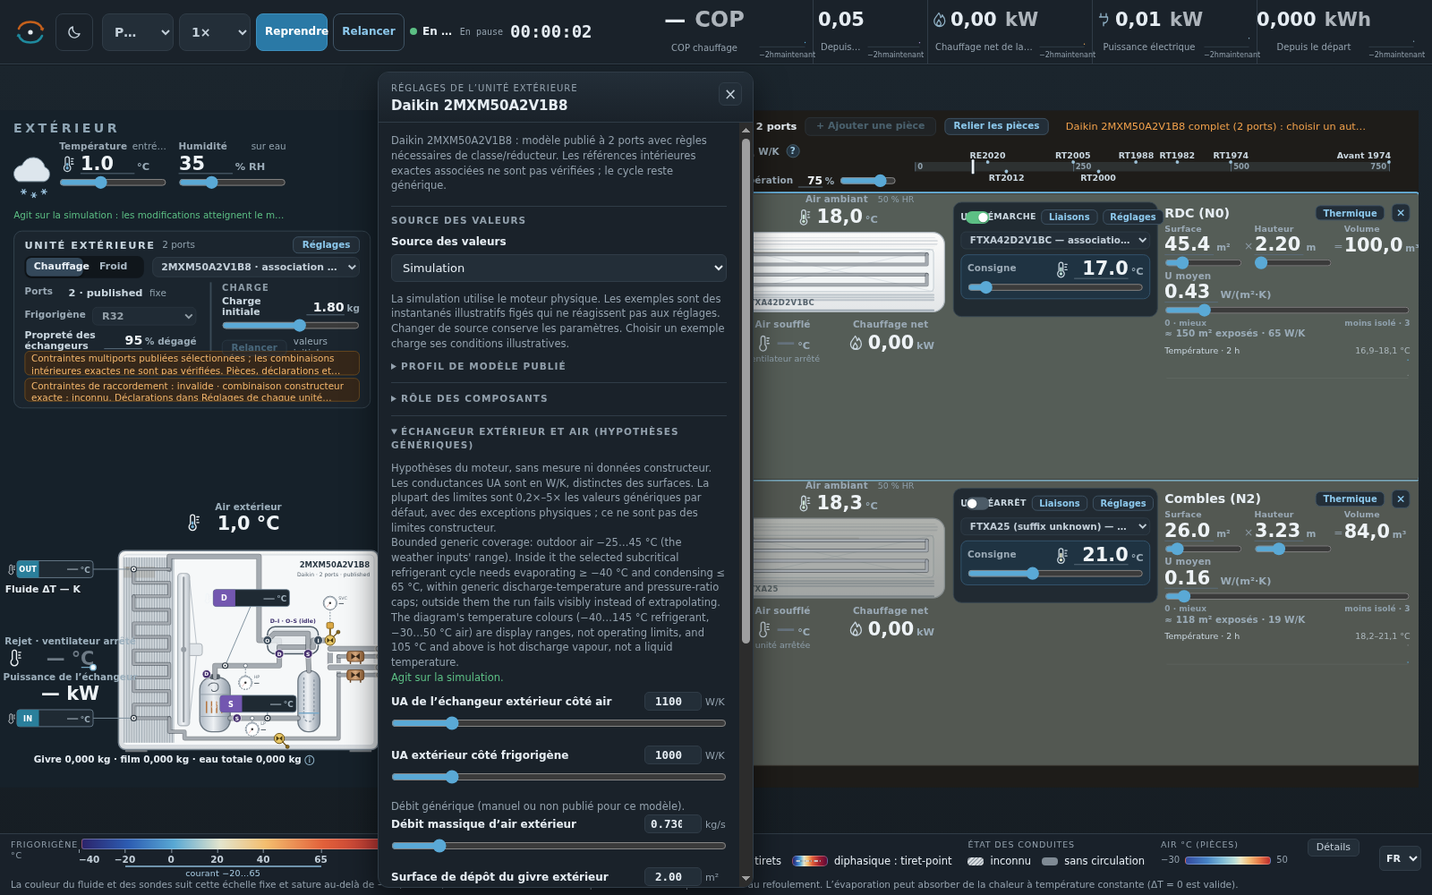
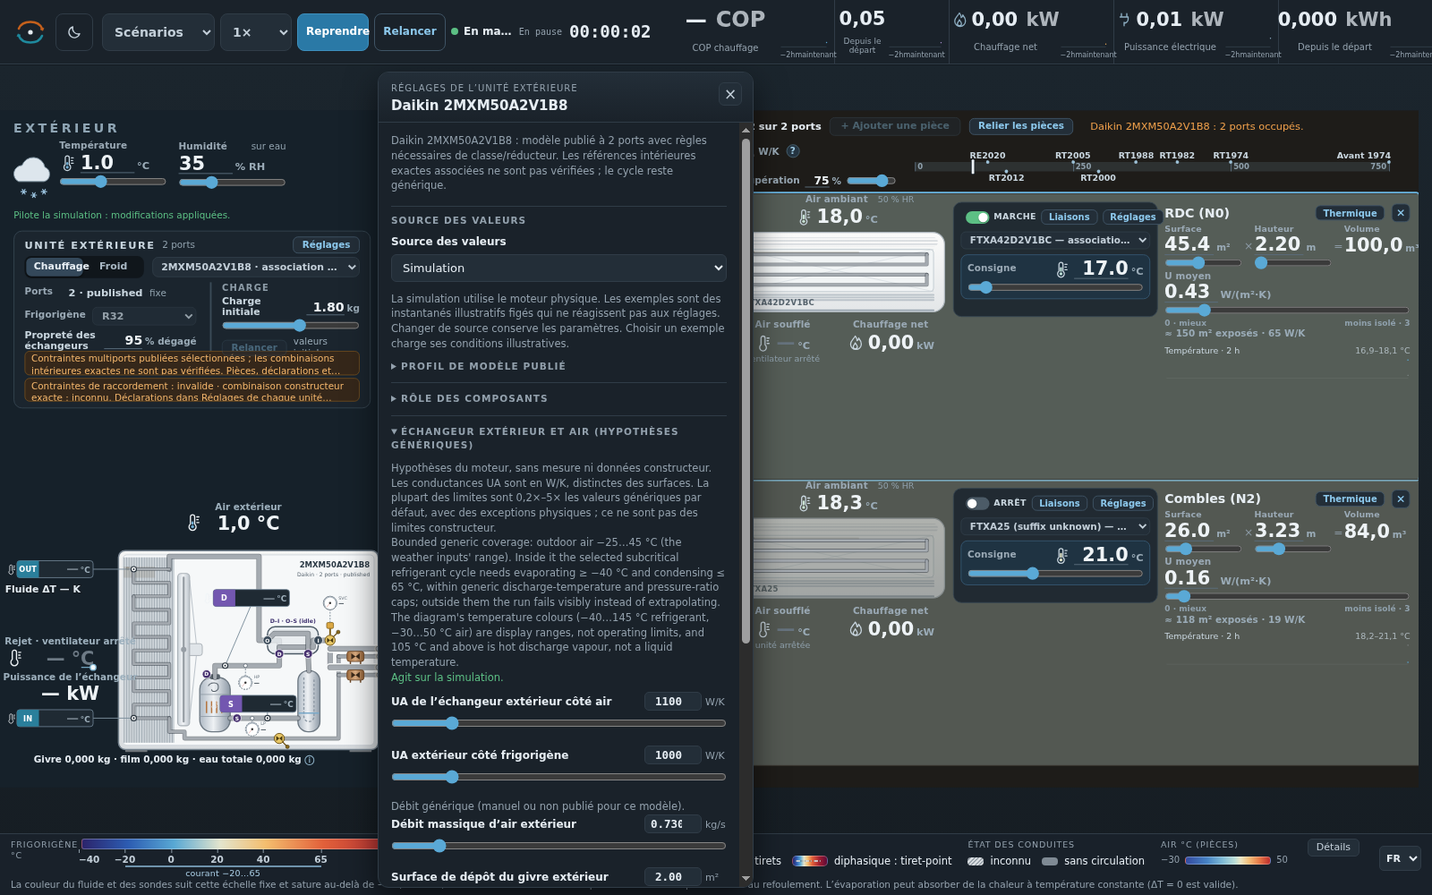
Offer every catalogued Daikin head on the owner 3MXM52N8 preset and fix clipped labels
The owner outdoor entry hard-coded FTXA25/35 as its only heads, while the
catalogue's own 3MXM52N2V1B8 entry already allowed all Daikin heads. The
owner preset now shares that selection; non-owner heads are marked
"combination unverified".

Also removes the out-of-scope finned-surface placeholder row, wraps
branch-line and session-COP labels, positions the indoor bar from the
measured localized title, rebalances header widths (fixing the existing
1360 px overflow) and adds missing French patterns.

diff --git a/src/locales/fr.ts b/src/locales/fr.ts
@@ -42,7 +42,7 @@ const BASE: Readonly<Record<string, string>> = {
  'Shared by all indoor units':'Hypothèses communes aux unités intérieures', 'Humidity ratio':'Humidité absolue', 'Compressor and fans off, controls only.':'Compresseur et ventilateurs arrêtés, commande seule.', 'Water mass residual':'Résidu du bilan massique d’eau', 'Outdoor metal temperature':'Température du métal extérieur', 'Refrigerant condenser heat':'Puissance frigorigène au condenseur', 'Refrigerant evaporator heat':'Puissance frigorigène à l’évaporateur', 'Shared-pressure closure residual':'Résidu de fermeture des pressions communes', 'Refrigerant remaining':'Frigorigène restant', 'Refrigerant mass residual':'Résidu du bilan massique frigorigène', 'Refrigerant energy residual':'Résidu énergétique frigorigène', 'Inventory balance residual':'Résidu du bilan d’inventaire',
  'Match fixture':'Conditions de l’exemple', 'Editable outdoor':'Extérieur modifiable', 'CHARGE':'CHARGE', 'fixed':'fixe', 'unavailable':'indisponible', 'line':'liaison', 'transport idealized':'transport idéalisé', 'Model diagnostics':'Diagnostic du modèle', 'Details and readings':'Détails et valeurs', 'Constant H':'H constant', 'Oil':'Huile', 'Other':'Autres', 'Oil and other (pending)':'Huile et autres (à venir)', 'Refrigerant (research gating)':'Frigorigène (validation)', 'Component labels at outdoor zoom':'Noms des composants en zoom extérieur', 'Virtual HP tap':'Prise HP illustrative', 'Virtual LP tap':'Prise BP illustrative', 'Pending reference · no lubricant circulation or solubility model':'À venir · ni circulation ni solubilité du lubrifiant modélisées', 'Pending reference · moisture, non-condensables and contamination are not modelled':'À venir · humidité, incondensables et contamination non modélisés', 'Selected · pure fluid · real property backend (Live) · pinned EOS probe (Examples)':'Sélectionné · fluide pur · propriétés réelles (simulation) · point EOS référencé (exemples)', 'start values apply with the inventory model':'valeurs initiales appliquées au modèle à inventaire', 'House loss ≈ ':'Déperditions ≈ ',
  'Pause':'Pause', 'Resume':'Reprendre', 'Reset':'Relancer', 'Restart':'Relancer',
- 'Reset simulation':'Relancer la simulation','Presets':'Préréglages','Quick preset':'Préréglage rapide',
+ 'Reset simulation':'Relancer la simulation','Presets':'Scénarios','Quick preset':'Préréglage rapide',
  "Owner's winter · 1 °C":'Maison · hiver · 1 °C', "Owner's summer · 39 °C":'Maison · été · 39 °C',
  'Colour theme':'Thème de couleur','System':'Système','Light':'Clair','Dark':'Sombre','Language':'Langue',
  'Requested speed':'Vitesse demandée','Actual simulation speed':'Vitesse réelle de simulation',
@@ -166,7 +166,7 @@ const BASE: Readonly<Record<string, string>> = {
  'Room air temperature and humidity':'Température et humidité de la pièce',
  'Last accepted room temperature and humidity; calculation stopped.':'Dernières température et humidité validées ; calcul arrêté.',
  'Room air T / RH':'Température / HR de la pièce','Room air temperature (input)':'Température ambiante (entrée)',
- 'Signed kW':'kW signés','Signed room heat':'Puissance signée de la pièce','Net room heating':'Chauffage net de la pièce',
+ 'Signed kW':'kW signés','Signed room heat':'Puissance signée de la pièce','Net room heating':'Chauffage net',
  'Net room cooling':'Froid net de la pièce','Total electrical input':'Puissance électrique totale','Electricity consumed':'Électricité consommée',
  'Compressor refrigerant work':'Travail du compresseur transmis au fluide','Refrigerant work':'Travail transmis au frigorigène',
  'Drive loss':'Pertes du moteur/variateur','Controls':'Commande','Allocation':'Répartition','Branch':'Branche',
@@ -202,7 +202,7 @@ const BASE: Readonly<Record<string, string>> = {
  'Published model profile':'Profil de modèle publié','Nominal class':'Classe nominale','Pairing':'Association',
  'Catalogue family data; installed suffix unknown':'Données de gamme ; suffixe installé inconnu',
  'No effect on live performance':'Sans effet sur les performances simulées','Drives live model.':'Agit sur la simulation.',
- 'Drives the live model: changes reach the engine.':'Agit sur la simulation : les modifications atteignent le moteur.',
+ 'Drives the live model: changes reach the engine.':'Pilote la simulation : modifications appliquées.',
  'Stored for Live; the Examples ignore these values.':'Conservé pour la simulation ; les exemples ignorent ces valeurs.',
  'Stored for the Inventory model.':'Conservé pour le modèle à inventaire.',
  'Reference model active. The Inventory model is gated until its science review passes.':'Modèle de référence actif. Le modèle à inventaire attend sa validation scientifique.',
@@ -253,7 +253,7 @@ export const FR_PATTERNS: readonly (readonly [string, string])[] = [
  ['{n} of {capacity} ports','{n} sur {capacity} ports'],['{n} of {capacity} port','{n} sur {capacity} port'],
  ['{n} of {capacity} assumed ports','{n} sur {capacity} ports supposés'],
  ['{n} · declared','{n} · déclaré'],['envelope {loss} + air ~{air}','enveloppe {loss} + air ~{air}'],
- ['{model} full ({ports} ports): choose another outdoor model for more.','{model} complet ({ports} ports) : choisir un autre modèle pour en ajouter.'],
+ ['{model} full ({ports} ports): choose another outdoor model.','{model} : {ports} ports occupés.'],['{model} full ({ports} port): choose another outdoor model.','{model} : {ports} port occupé.'],
  ['Generic R32 · uncalibrated. Efficiency and cleanliness drive the model.','R32 générique · non étalonné. Rendement et propreté agissent sur le moteur.'],
  ['{name} indoor coil cleanliness {value} % clear (global)','Propreté de l’échangeur intérieur de {name} : {value} % dégagé (global)'],
  ['Outdoor coil cleanliness {value} % clear (global)','Propreté de l’échangeur extérieur : {value} % dégagé (global)'],
@@ -270,7 +270,7 @@ export const FR_PATTERNS: readonly (readonly [string, string])[] = [
  ['{name} indoor coil liquid end · {basis}','extrémité liquide de l’échangeur intérieur de {name} · {basis}'],
  ['{a} and {b}: {what}, vertical connection, {heat}. Click to edit.','{a} et {b} : {what}, liaison verticale, {heat}. Cliquer pour modifier.'],
  ['{a} and {b}: {what}, horizontal connection, {heat}. Click to edit.','{a} et {b} : {what}, liaison horizontale, {heat}. Cliquer pour modifier.'],
- ['REF ΔT {value} K','Fluide ΔT {value} K'],['coil heat {value}','échange {value}'],
+ ['REF ΔT {value} K','Fluide ΔT {value} K'],['releases {value} kW','cède {value} kW'],['absorbs {value} kW','absorbe {value} kW'],['coil heat {value}','échange {value}'],
  ['{value} simulated seconds per wall second{detail}','{value} secondes simulées par seconde réelle{detail}'],
 
  ['Compressor paused for {detail}; thermal state continues evolving.','Compresseur en pause pour {detail} ; l’état thermique continue d’évoluer.'], ['Compressor restart dwell: {seconds} seconds remaining.','Délai de redémarrage : {seconds} secondes restantes.'],

diff --git a/src/style.css b/src/style.css
@@ -350,7 +350,7 @@ h2, h3, h4, h5, p, ul, dl { margin: 0; }
 .hd-run { display: flex; align-items: center; gap: 8px; flex: none; }
 .time { font: 650 19px/1 var(--mono); font-variant-numeric: tabular-nums; letter-spacing: 0; min-width: 8ch; text-align: right; white-space: nowrap; }
 /* Action select: shows its placeholder at rest; the longer option texts only appear in the open list. */
-.hd-select.hd-preset { width: 80px; padding-right: 18px; text-overflow: ellipsis; }
+.hd-select.hd-preset { width: 104px; padding-right: 18px; text-overflow: ellipsis; }
 .hd-select { width: 80px; height: 42px; padding: 5px 18px 5px 9px; border-radius: 8px; font-weight: 600; font-size: 14px; cursor: pointer; color: var(--ink-2); }
 .hd-select option:disabled { color: var(--disabled); }
 .hd-speed { display: flex; align-items: center; flex: none; width: 80px; }
@@ -364,13 +364,13 @@ h2, h3, h4, h5, p, ul, dl { margin: 0; }
 /* Headline readings: five fixed cells, separated by full-height hairlines (no card borders, no radius). In each cell the
    value sits at the left with its label below it, and the two-hour trend fills the space to the right of both. */
 .hd-metrics { display: flex; align-self: stretch; flex: none; }
-.hm { display: grid; grid-template-columns: 110px minmax(36px, 1fr); grid-template-rows: auto auto; align-content: center; align-items: center; column-gap: 6px; row-gap: 2px; width: clamp(168px, 11.5vw, 220px); padding: 5px 8px; min-width: 0; }
+.hm { display: grid; grid-template-columns: 110px minmax(36px, 1fr); grid-template-rows: auto auto; align-content: center; align-items: center; column-gap: 6px; row-gap: 2px; width: clamp(158px, 10.9vw, 220px); padding: 5px 8px; min-width: 0; }
 /* The since-restart COP is a narrower secondary cell right of the instantaneous COP: smaller value, own plot. */
 .hm-session-cop { grid-template-columns: 46px minmax(36px, 1fr); width: clamp(104px, 8vw, 160px); }
-.hm-energy { grid-template-columns: 110px minmax(36px, 1fr); width: clamp(168px, 11.5vw, 220px); }
+.hm-energy { grid-template-columns: 110px minmax(36px, 1fr); width: clamp(158px, 10.9vw, 220px); }
 .hm-energy .v { font-size: 21px; }
 .hm-session-cop .v { font-size: 21px; font-weight: 750; }
-.hm-session-cop .k { font-size: 9px; }
+.hm.hm-session-cop .k { font-size: 9px; line-height: 1.1; white-space: normal; overflow-wrap: anywhere; }
 .hm + .hm { border-left: 1px solid var(--line); }
 .hm .vl { display: flex; grid-column: 1; grid-row: 1; justify-content: center; align-items: baseline; gap: 4px; white-space: nowrap; }
 .hm .v { font: 750 21px/1.15 var(--font); font-variant-numeric: tabular-nums; }
@@ -396,18 +396,19 @@ h2, h3, h4, h5, p, ul, dl { margin: 0; }
 /* Time ends lie over the empty strip under the baseline; real text, so the stretched plot never distorts it. */
 .hm-ends { position: absolute; left: 0; right: 0; bottom: 0; display: flex; justify-content: space-between; font: 8px/1 var(--font); color: var(--muted); pointer-events: none; }
 
-.hd-status { flex: none; width: 104px; display: flex; flex-direction: column; gap: 4px; }
+.hd-status { flex: none; width: 112px; display: flex; flex-direction: column; gap: 4px; }
 @media (max-width: 1499px) {
   .topbar { gap: 6px; padding-inline: 8px; }
   .hd-group { gap: 5px; }
   .hd-run { gap: 6px; }
-  .hd-status { width: 100px; }
-  .hm, .hm-energy { grid-template-columns: 110px minmax(26px, 1fr); width: 158px; }
+  .hd-status { width: 110px; }
+  .hm, .hm-energy { grid-template-columns: 110px minmax(26px, 1fr); width: 148px; }
   .hm-session-cop { grid-template-columns: 46px minmax(26px, 1fr); width: 94px; }
 }
-@media (max-width: 1359px) {
+@media (max-width: 1399px) {
   .topbar { gap: 4px; padding-inline: 6px; }
   .hd-status { width: 80px; }
+  .hd-select.hd-preset { width: 80px; }
   .hm, .hm-energy { grid-template-columns: 102px minmax(18px, 1fr); width: 138px; padding-inline: 6px; }
   .hm-session-cop { grid-template-columns: 46px minmax(22px, 1fr); width: 88px; padding-inline: 6px; }
 }
@@ -750,7 +751,7 @@ select { width: 100%; padding: 6px 8px; border: 1px solid var(--line); border-ra
 .hl-sum { flex: none; width: 306px; display: flex; flex-direction: column; gap: 1px; cursor: help; }
 /* Single / dual flow (native select) and, when dual, the sensible recovery as an inline number + range. */
 .hl-vent { display: flex; align-items: center; gap: 8px; min-height: 20px; cursor: auto; }
-.hl-mode { flex: none; width: 92px; padding: 1px 4px; border-radius: 6px; font: 600 11px/1.3 var(--font); color: var(--ink-2); }
+.hl-mode { flex: none; width: 100px; padding: 1px 4px; border-radius: 6px; font: 600 11px/1.3 var(--font); color: var(--ink-2); }
 .hl-mode option { background: var(--panel); color: var(--ink); }
 .hl-vent .pf.inline { flex: 1 1 auto; min-width: 0; gap: 6px; }
 .hl-vent .pf.inline .rp-k { width: auto; font-size: 11px; }
@@ -791,8 +792,8 @@ select { width: 100%; padding: 6px 8px; border: 1px solid var(--line); border-ra
    and the single field-line model switch above the first one. Unboxed; a thin rule on the left ties each block to its pair. */
 .rp.ln { background: none; border: 0; border-left: 2px solid var(--ln-rule); border-radius: 0; padding: 1px 0 1px 8px; justify-content: flex-start; gap: 2px; }
 .ln .pf.line { gap: 1px; }
-.ln .pf.line .pf-head { align-items: baseline; gap: 6px; }
-.ln .pf.line .rp-k { display: flex; gap: 4px; min-width: 0; font-size: 12px; color: var(--rp-ink); white-space: nowrap; }
+.ln .pf.line .pf-head { flex-wrap: wrap; align-items: baseline; gap: 0 6px; }
+.ln .pf.line .rp-k { display: flex; flex-basis: 100%; gap: 4px; min-width: 0; font-size: 12px; color: var(--rp-ink); white-space: nowrap; }
 .ln-name { min-width: 0; overflow: hidden; text-overflow: ellipsis; font-weight: 750; color: var(--rp-v); }
 .ln-tail { flex: none; font-weight: 600; color: var(--rp-n); }
 .ln .pf.line .rp-num { font-size: 17px; width: 2.9em; }
@@ -1062,7 +1063,7 @@ select { width: 100%; padding: 6px 8px; border: 1px solid var(--line); border-ra
 .branch-taps .dl { opacity: 1; }
 .room-rp .rp-head { gap: 6px; }
 .room-rp.rp.eq { padding: 6px 8px; }
-.room-rp .eq-tag { letter-spacing: .08em; }
+.room-rp .eq-tag { flex: 1 1 0; overflow: hidden; letter-spacing: .08em; }
 
 /* Room links: one chip on the shared room separator (connection direction, flow arrow, live kW; a non-adjacent link adds a short
    endpoint reference). No connector line and no kind-specific icon, so a future combined link fits the same chip. Neutral steel,

diff --git a/src/scene.ts b/src/scene.ts
@@ -533,6 +533,9 @@ export function createScene(hooks: SceneHooks, unitCard: OutdoorUnitCard, film: 
   let outSub: SVGTextElement = txt(0, 0, '');
   let valveLabel: SVGTextElement = txt(0, 0, '');
   let svcRole: SVGTextElement = txt(0, 0, '');
+  let indoorTitle: SVGTextElement = txt(0, 0, '');
+  let barPanel: SVGForeignObjectElement = svg('foreignObject');
+  let barSpan = { x: 0, right: 0 };
   // Panels are created once per index and re-attached by every rebuild, so controls keep their DOM identity and value.
   const weather = weatherPanel();
   const bar = roomsBar(() => setLinking(!linkMode));
@@ -626,14 +629,15 @@ export function createScene(hooks: SceneHooks, unitCard: OutdoorUnitCard, film: 
       svg('rect', { class: 'zone-in', 'data-zoom-target': 'rooms', tabindex: 0, role: 'button', 'aria-label': 'Zoom to indoor zone', x: wall.x1, y: 0, width: lay.vbW - wall.x1, height: lay.vbH }),
       svg('rect', { class: 'zone-edge', x: wall.x0, y: 0, width: wall.x1 - wall.x0, height: lay.vbH }),
     );
+    barSpan = { x: wall.x1 + 118, right: wall.x1 + 878 };
     weatherG = svg('g', { class: 'weather', transform: `translate(${OP.x - 24} ${OP.y - 12})` });
     weatherKind = '';
     root.append(
       weatherG, overlayPanel(OP.x, OP.y, OP.w, OP.h, weather.root),
       overlayPanel(UP.x, UP.y, UP.w, UP.h, unitCard.root),
       svg('g', { 'data-zoom-target': 'outdoor', tabindex: 0, role: 'button', 'aria-label': 'Zoom to outdoor zone' }, txt(16, 26, 'OUTDOOR', 'zone-title')),
-      svg('g', { 'data-zoom-target': 'rooms', tabindex: 0, role: 'button', 'aria-label': 'Zoom to indoor zone' }, txt(wall.x1 + 14, 26, 'INDOOR', 'zone-title')),
-      overlayPanel(wall.x1 + 118, 6, 760, 26, bar.root),
+      svg('g', { 'data-zoom-target': 'rooms', tabindex: 0, role: 'button', 'aria-label': 'Zoom to indoor zone' }, indoorTitle = txt(wall.x1 + 14, 26, 'INDOOR', 'zone-title')),
+      barPanel = overlayPanel(wall.x1 + 118, 6, 760, 26, bar.root),
       // The single calculated whole-house ruler with its ventilation controls, in the 62 units between the bar row and the first room (see STACK_TOP).
       overlayPanel(wall.x1 + 10, 36, 910, 60, ruler.root),
       // 10 units below the scene top so the switch is not glued to the edge; it still ends well above the first room's pipes.
@@ -1311,7 +1315,12 @@ export function createScene(hooks: SceneHooks, unitCard: OutdoorUnitCard, film: 
     setAttr(bar.add, 'title', full
       ? (fixedPorts ? `${model.label} has ${cap} ${portWord}. Choose another outdoor model, or the generic editable outdoor, to explore more.` : 'Generic port capacity (an assumption) is reached. Raise it on the outdoor unit.')
       : 'Add an indoor unit and its room on the next free port');
-    setText(bar.hint, full ? (fixedPorts ? `${model.label} full (${cap} ${portWord}): choose another outdoor model for more.` : 'Capacity reached: raise the assumed port capacity on the outdoor unit.') : '');
+    // The bar starts after the localized, letter-spaced INDOOR title, whose width differs per language.
+    const title = indoorTitle.getBBox();
+    const barX = Math.max(barSpan.x, Math.ceil(title.x + title.width + 10));
+    setAttr(barPanel, 'x', String(barX));
+    setAttr(barPanel, 'width', String(barSpan.right - barX));
+    setText(bar.hint, full ? (fixedPorts ? `${model.label} full (${cap} ${portWord}): choose another outdoor model.` : 'Capacity reached: raise the assumed port capacity on the outdoor unit.') : '');
 
     // weather
     // The glyph is redrawn only when its category changes (sun / cloud / snow cloud), never per update.
@@ -1329,7 +1338,7 @@ export function createScene(hooks: SceneHooks, unitCard: OutdoorUnitCard, film: 
     // Weather: ambient inputs only (configured values, meaningful while the engine loads). Machine readings live on the outdoor-unit card.
     weather.t.refresh();
     weather.h.refresh();
-    setText(weather.t.note, live ? 'live input' : 'configured');
+    setText(weather.t.note, live ? '' : 'configured');
     setText(weather.h.note, cfg.outdoorC < 0 ? 'over ice' : 'over liquid');
     const scope = weatherScope(s);
     setText(weather.status, scope.text);

diff --git a/src/equipment.ts b/src/equipment.ts
@@ -73,11 +73,19 @@ export function indoorModelProfile(indoor: IndoorClass) {
   return CATALOGUE_INDOORS.find(model => model.id === indoor);
 }
 
+const OWNER_HEADS: readonly IndoorClass[] = ['FTXA25', 'FTXA35'];
+const DAIKIN_HEADS: readonly IndoorClass[] = [...OWNER_HEADS, ...CATALOGUE_INDOORS.filter(m => m.manufacturer === 'daikin').map(m => m.id)];
+
+/** Daikin multisplits, including the owner 3MXM52N8, may be explored with any catalogued Daikin head;
+ * only the owner's declared FTXA25/35 pairing is presented without an unverified-combination mark. */
+export function selectableIndoorClasses(outdoor: OutdoorKind): readonly IndoorClass[] {
+  const model = outdoorModelInfo(outdoor);
+  return model.installation || model.id === 'owner' ? DAIKIN_HEADS : model.compatibleIndoorClasses;
+}
+
 export function indoorOptionsForOutdoor(outdoor: OutdoorKind): { value: IndoorClass; text: string; manufacturer: EquipmentManufacturer }[] {
   const model = outdoorModelInfo(outdoor);
-  const candidates: readonly IndoorClass[] = model.installation
-    ? ['FTXA25', 'FTXA35', ...CATALOGUE_INDOORS.filter(m => m.manufacturer === 'daikin').map(m => m.id)]
-    : model.compatibleIndoorClasses;
+  const candidates = selectableIndoorClasses(outdoor);
   return candidates.map(value => {
     const profile = indoorModelProfile(value);
     const ownerHead = value === 'FTXA25' || value === 'FTXA35';
@@ -85,7 +93,8 @@ export function indoorOptionsForOutdoor(outdoor: OutdoorKind): { value: IndoorCl
     return { value, manufacturer,
       text: (profile ? `${equipmentManufacturerLabel(manufacturer)} ${value}${profile.acceptance === 'reviewed-class-fields' ? ' (class; suffix unpublished)' : ''}${'marketScope' in profile ? ' (availability unverified)' : ''}${profile.coolingHighFanFlowM3h === null ? ' (airflow unpublished; generic/manual)' : ''}`
         : ownerHead ? `Daikin ${value} (suffix unknown)`
-        : `Generic wall head ${value === 'G25' ? '2.5' : value === 'G35' ? '3.5' : '5.0'} kW class`) + (model.installation ? ' — combination unverified' : '') };
+        : `Generic wall head ${value === 'G25' ? '2.5' : value === 'G35' ? '3.5' : '5.0'} kW class`)
+        + (model.installation || (model.id === 'owner' && !ownerHead) ? ' — combination unverified' : '') };
   });
 }
 

diff --git a/src/state.ts b/src/state.ts
@@ -1,5 +1,5 @@
 import type { AppState, Config, Experience, ExampleState, IndoorClass, Mode, OutdoorKind, PipeConfig, RoomConfig, InterzoneLink, UiState } from './types';
-import { applyIndoorProfile, indoorOptionsForOutdoor, outdoorModelInfo } from './equipment';
+import { applyIndoorProfile, indoorOptionsForOutdoor, outdoorModelInfo, selectableIndoorClasses } from './equipment';
 import { CONNECTION_CLASSES, type HeadInstallation } from './equipment-topology';
 import { DEFAULT_GENERIC_PORT_CAPACITY, OWNER_PORTS, outdoorPortCapacity, roomVolumeM3, roomExposedEnvelopeAreaM2, roomEnvelopeConductanceWK, interzoneConductance, hasInterzoneGeometry, INTERZONE_GEOMETRY_DEFAULTS } from './types';
 import type { Fixture } from './fixtures';
@@ -486,8 +486,9 @@ class Store {
       if (model.coolingHighFanFlowM3h !== undefined) s.cfg.outdoorVolumetricAirFlowM3s = model.coolingHighFanFlowM3h / 3600;
       else delete s.cfg.outdoorVolumetricAirFlowM3s;
       for (const room of s.cfg.rooms.slice(0, s.cfg.unitCount)) {
-        if (!model.installation && !model.compatibleIndoorClasses.includes(room.indoorClass)) {
-          applyIndoorProfile(room, model.compatibleIndoorClasses[0]);
+        const selectable = selectableIndoorClasses(kind);
+        if (!selectable.includes(room.indoorClass)) {
+          applyIndoorProfile(room, selectable[0]);
         }
       }
       s.ui.notice = oldCount > s.cfg.unitCount

diff --git a/src/inspector.ts b/src/inspector.ts
@@ -193,8 +193,6 @@ export function inspectorHtml(id: string | null, s: AppState): string {
         roleRow,
         ...refRows,
         cleanRow(outdoorCleanliness(cfg), false),
-        ['Air-side finned surface', '— <i>m²</i> <span class="tag">not yet estimated</span>'],
-        ['UA', '— <i>W/K</i> (separate quantity)'],
         ['Qevap / Qcond (fixture)', fm === 'heating' ? kw(rd.qEvapKw) : kw(rd.qCondKw)],
         ['Ice deposition', rd.frostRateKgH === null ? '—' : `${fmt(rd.frostRateKgH, 2)} <i>kg/h</i>`],
         ['Melt rate', rd.meltRateKgH === null ? '—' : `${fmt(rd.meltRateKgH, 2)} <i>kg/h</i>`],

diff --git a/PROGRESS.md b/PROGRESS.md
@@ -8,6 +8,8 @@ Audited 2026-10-11 against the deployed source, release receipts and current res
 
 Routine catalogue extraction and import batches are now assigned to Luna, using the existing strict importer, source receipts and deterministic/browser checks. Stronger-model review is reserved for conflicting evidence or substantive importer changes. Seven independently reviewed floor/duct classes pass Luna's isolated 48 source checks, 65 actual-control checks and build; root integration remains pending. Five preliminary Nepura p345 records remain research-only; four final p349 class records are the next bounded import.
 
+Indoor choice and label fit (2026-11-17): the owner 3MXM52N8 preset no longer restricts heads to FTXA25/35. It now offers every catalogued Daikin head, as the catalogue's own 3MXM52N2V1B8 entry already did; the declared FTXA25/35 stay unmarked and every other head is labelled "combination unverified". Switching outdoor models keeps any selectable Daikin head. The out-of-scope "finned surface — not yet estimated" Examples inspector row is removed. Clipped labels are fixed: branch line names wrap, the since-start COP label wraps, Presets/status widths fit, the indoor bar follows the measured localized title, and French gains missing "cède/absorbe … kW" patterns plus shorter hints. Header widths were rebalanced against the metric cells; the existing 1360 px header overflow is also gone (compact breakpoint now 1399 px). Checks: `tools/check-owner-indoor-choice.mjs` 3/3, language 4/4, equipment 6/6 (stale hard-coded counts replaced: the monosplit sweep excludes multisplits and the outdoor option count derives from the data), MXM 44, legacy MXM 16, Siesta outdoor 73, frontend 7, catalogue 44 + topology, TypeScript and build. Engine untouched.
+
 Room floor-area sliders now span 5–100 m². The paired number input retains its previous 250 m² limit, so typing 125 m² stores that actual area and calculates volume from it while the slider rests at 100. Six direct Chromium checks cover all three sliders, native keyboard/typing, volume and paused clock/history retention; TypeScript and production build pass. See `reviews/room-area-slider-browser-results.json`.
 
 Cooling-start report: the owner's observed session was idle with all rooms below the24°C summer target, no thermostat calls and no protection/fault. Season presets preserve winter room temperatures. Standby now shows a visible No cooling demand/No heating demand reason, with the±1°C restart trigger and fresh-run instructions in its tooltip; all-Off has its own label. Seven isolated Chromium checks verify native preset state retention, English/French labels, native initial-temperature controls/Reset and actual guarded cooling startup from26°C through60s. Startup ramps from0.5rps, establishes negative room heat, and conserves energy/water. Build and seven frontend checks pass; no engine equations or preset stores changed. Receipt: `reviews/cooling-standby-browser-results.json`.
